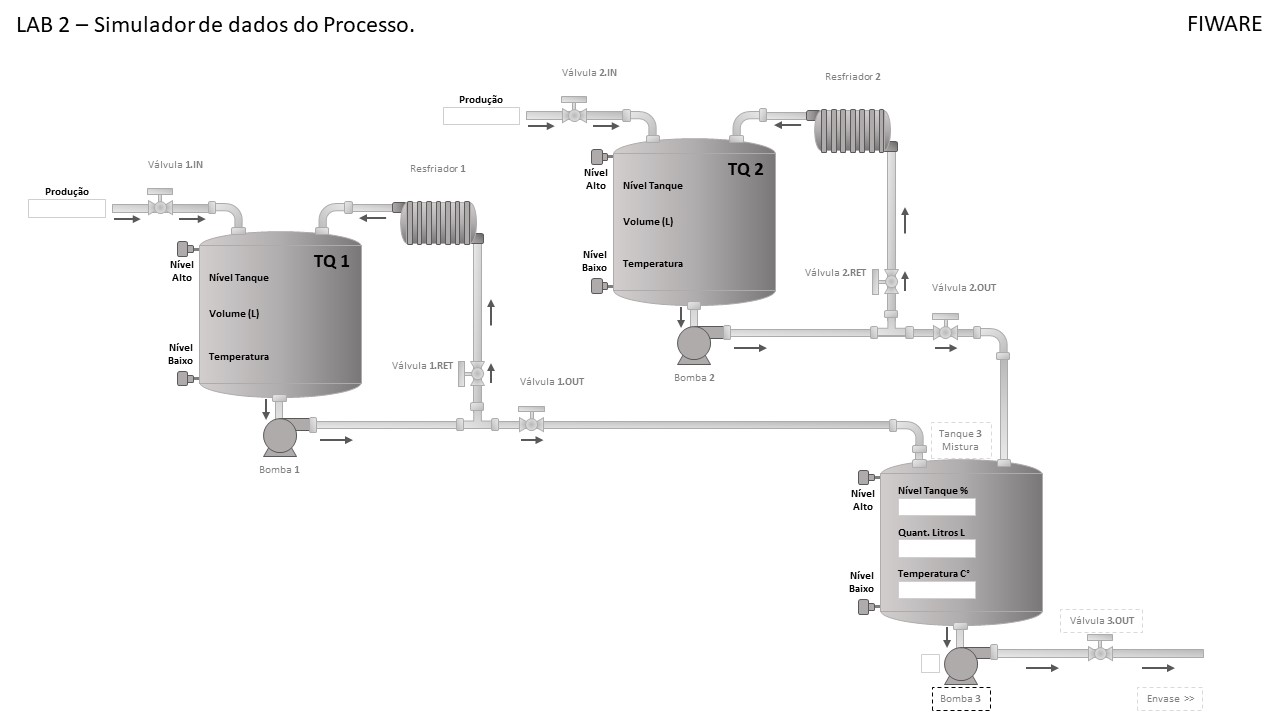
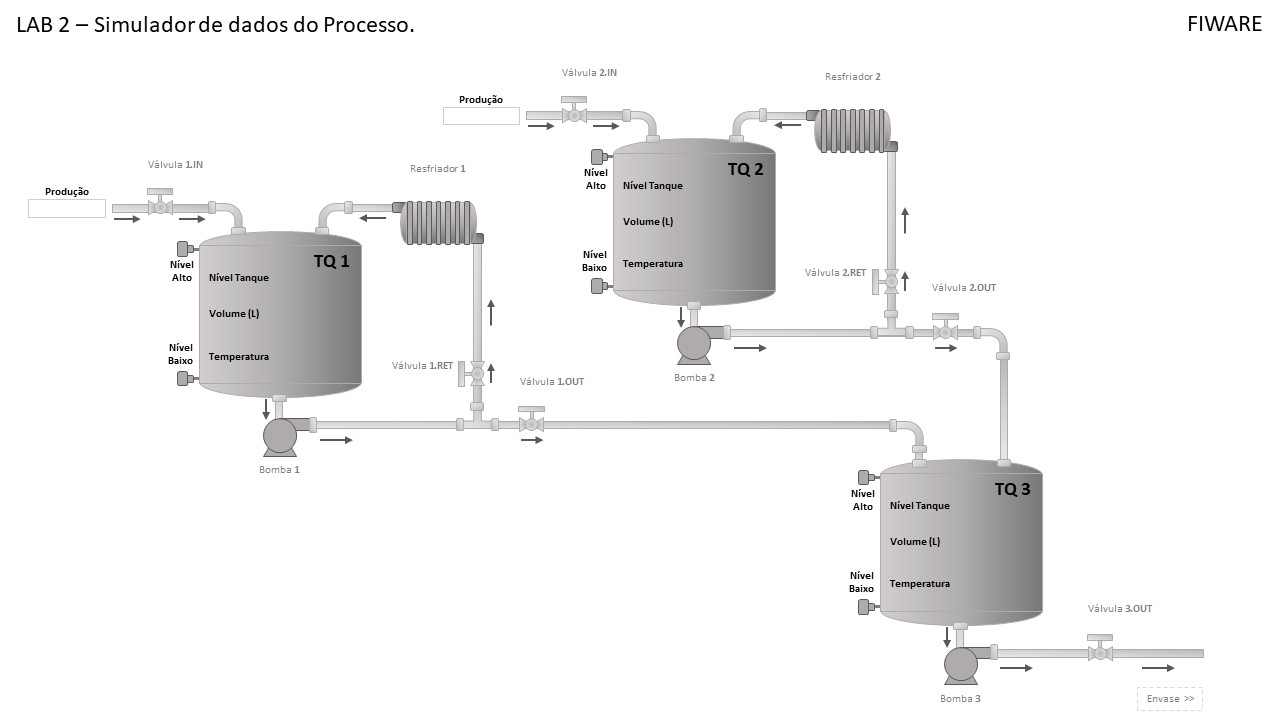
Lab 02 - Adding TQ3

diff --git a/lab02/process-simulation/process.py b/lab02/process-simulation/process.py
@@ -5,7 +5,7 @@
 # [START import_module]
 import time
 import random
-
+import getopt, sys
 import paho.mqtt.client as paho
 
 from typing import List
@@ -45,6 +45,7 @@ class ProcessSimulation():
         self.__tank_1.setAttribute(id='TEMP.LOW' , value=35)        
         self.__tank_1.setAttribute(id='CAPACITY' , value=35000)
         self.__tank_1.setAttribute(id='CAPACITY.UNIT' , value='LT')
+        self.__tank_1.setAttribute(id='TEMPERATURE' , value=23.7)
 
         self.__tank_2 = Tank()
         self.__tank_2.setAttribute(id='NAME' , value='TQ2')
@@ -54,7 +55,8 @@ class ProcessSimulation():
         self.__tank_2.setAttribute(id='TEMP.LOW' , value=20)        
         self.__tank_2.setAttribute(id='CAPACITY' , value=40000)
         self.__tank_2.setAttribute(id='CAPACITY.UNIT' , value='LT')
-        
+        self.__tank_2.setAttribute(id='TEMPERATURE' , value=24.2) 
+      
         self.__tank_3 = Tank()
         self.__tank_3.setAttribute(id='NAME' , value='TQ3')
         self.__tank_3.setAttribute(id='LEVEL.HIGH' , value=90)
@@ -63,7 +65,7 @@ class ProcessSimulation():
         self.__tank_2.setAttribute(id='TEMP.LOW' , value=20)        
         self.__tank_3.setAttribute(id='CAPACITY' , value=60000)
         self.__tank_3.setAttribute(id='CAPACITY.UNIT' , value='LT')
-
+        self.__tank_3.setAttribute(id='TEMPERATURE' , value=21.7) 
 
         # Valve
         self.__valve_1_IN = Valve()
@@ -104,7 +106,19 @@ class ProcessSimulation():
         self.__ciclosTqFill = 0
         self.__ciclosTqFillMax = 30
         self.__ciclosTqColl = 0
-        self.__ciclosTqCollMax = 20        
+        self.__ciclosTqCollMax = 20 
+
+        self.__ciclosBlAvaliables = 0
+        self.__ciclosBlAvaliablesMax = 50
+
+        ## Simulação
+        # self.__tank_1.setAttribute(id='LEVEL' , value=38)
+        # self.__tank_1.setAttribute(id='VOLUME' , value=13300)
+        # self.__tank_1.setAttribute(id='TEMPERATURE' , value=41.7)
+
+        # self.__tank_2.setAttribute(id='LEVEL' , value=42)
+        # self.__tank_2.setAttribute(id='VOLUME' , value=16800)
+        # self.__tank_2.setAttribute(id='TEMPERATURE' , value=28.2)         
 
 
     def simulationLogic(self):
@@ -112,11 +126,17 @@ class ProcessSimulation():
         # TANKS BUFFERS
         for tk in [self.__tank_1, self.__tank_2]:
             self.simulationTankBuffer(tk)
+
+        # TANK BLENDER
+        self.simulationTankBlender(tankBuffes=[self.__tank_1, self.__tank_2], tankBlender=self.__tank_3)
+
+        # TANKS Publish
+        for tk in [self.__tank_1, self.__tank_2,self.__tank_3]:
             sentData = tk.publishMQTT(self.mqtt_client, self.mqtt_prefix)
             if self.__debug>=2:
                 print('## MQTT', tk.getAttribute(id='NAME'), ':\n', sentData, '\n')
 
-            time.sleep(self.sleepTime/5)
+            time.sleep(self.sleepTime/5)            
 
         # COOLER
         for cl in [self.__cooler_1, self.__cooler_2]:
@@ -301,6 +321,7 @@ class ProcessSimulation():
             temp = tankBlender.getAttribute(id='TEMPERATURE')
             tempLow = tankBlender.getAttribute(id='TEMP.LOW')
             tempHigh = tankBlender.getAttribute(id='TEMP.HIGH')
+            volume = tankBlender.getAttribute(id='VOLUME')
             level = capacity*(tankBlender.getAttribute(id='LEVEL')/100)
             levelLow = capacity*(tankBlender.getAttribute(id='LEVEL.LOW')/100)
             levelHigh= capacity*(tankBlender.getAttribute(id='LEVEL.HIGH')/100)
@@ -316,6 +337,7 @@ class ProcessSimulation():
                     'LEVEL.LOW',':',tankBlender.getAttribute(id='LEVEL.LOW'),f'({levelLow})','\n',
                     'LEVEL.HIGH',':',tankBlender.getAttribute(id='LEVEL.HIGH'),f'({levelHigh})','\n',
                     )
+                
 
             if sts == 0: # IS WAITING
                 if (level >= (levelLow*2)):
@@ -333,6 +355,28 @@ class ProcessSimulation():
 
                         for tb in tankBuffes:
                             tb.setStatus(id=4) # TO TRANSFER
+
+            if sts == 1: # TO AVAILABLE
+                self.__ciclosBlAvaliables += 1
+                if ((level <= levelHigh) and
+                    (self.__ciclosBlAvaliables>self.__ciclosBlAvaliablesMax)):
+                    allAvailables = True
+                    for tb in tankBuffes:
+                        stsTB = tb.getStatus()[0]
+
+                        if (allAvailables) and (stsTB!=1):
+                            allAvailables=False
+
+                    if allAvailables:
+                        tankBlender.setStatus(id=2) # TO FILLING
+
+                        for tb in tankBuffes:
+                            tb.setStatus(id=4) # TO TRANSFER
+                    self.__ciclosBlAvaliables = 0
+                else:
+                    if self.__debug>=1:
+                        print('AVAILABLE BLENDER',
+                              f'looping [{self.__ciclosBlAvaliables}/{self.__ciclosBlAvaliablesMax}]')
 
             if sts == 2: # TO FILLING
                 valve_OUT= self.__valve_3_OUT
@@ -354,31 +398,49 @@ class ProcessSimulation():
                     for tb in tankBuffes:
                         tb.setStatus(id=0) # TO WAIT
                 else:
-                    levelTQ1 = capacity*(tq1.getAttribute(id='LEVEL')/100)
-                    levelTQ2 = capacity*(tq2.getAttribute(id='LEVEL')/100)
-
                     capacityTQ1 = tq1.getAttribute(id='CAPACITY')
                     capacityTQ2 = tq2.getAttribute(id='CAPACITY')
+
+                    volumeTQ1 = tq1.getAttribute(id='VOLUME')
+                    volumeTQ2 = tq2.getAttribute(id='VOLUME')
 
                     tempTQ1 = tq1.getAttribute(id='TEMPERATURE')
                     tempTQ2 = tq2.getAttribute(id='TEMPERATURE')
 
                     addLiters = round(capacity*(random.randint(3,7)/1000),0) # 0.3% - 0.7%
                     
-                    levelTQ1 = levelTQ1-addLiters
-                    tq1.setAttribute(id='LEVEL' , value=int((levelTQ1/capacityTQ1)*100))
+                    if self.__debug>=1:
+                        print(
+                            'BLENDER FILLING (BEFORE)',
+                            'Volume TQ1=',volumeTQ1,';',
+                            'Volume TQ2=',volumeTQ2,';',
+                            'Liters=',addLiters,';',
+                            'Liters TQ1=',(addLiters*(-1)),';',
+                            'Liters TQ2=',(addLiters*2*(-1)), '\n'
+                            )
 
-                    levelTQ2 = levelTQ2-(addLiters*2)
-                    tq2.setAttribute(id='LEVEL' , value=int((levelTQ2/capacityTQ2)*100))
+                    volumeTQ1 = volumeTQ1-addLiters
+                    tq1.setAttribute(id='LEVEL' , value=int((volumeTQ1/capacityTQ1)*100))
 
-                    tankBlender.setAttribute(id='LEVEL' , value=int(((level+(addLiters*3))/capacity)*100))
+                    volumeTQ2 = volumeTQ2-(addLiters*2)
+                    tq2.setAttribute(id='LEVEL' , value=int((volumeTQ2/capacityTQ2)*100))
 
-                    tq1.setAttribute(id='VOLUME' , value=round(levelTQ1, 2))
-                    tq2.setAttribute(id='VOLUME' , value=round(levelTQ2, 2))
-                    tankBlender.setAttribute(id='VOLUME' , value=round((level+(addLiters*3)), 2))
+                    tankBlender.setAttribute(id='LEVEL' , value=int(((volume+(addLiters*3))/capacity)*100))
 
-                    newTemp = round(((addLiters*tempTQ1)+((addLiters*2)*tempTQ2)+(temp*level))/((addLiters*3)+level),2)
+                    tq1.setAttribute(id='VOLUME' , value=round(volumeTQ1, 2))
+                    tq2.setAttribute(id='VOLUME' , value=round(volumeTQ2, 2))
+                    tankBlender.setAttribute(id='VOLUME' , value=round((volume+(addLiters*3)), 2))
+
+                    newTemp = round(((addLiters*tempTQ1)+((addLiters*2)*tempTQ2)+(temp*volume))/((addLiters*3)+volume),2)
                     tankBlender.setAttribute(id='TEMPERATURE' , value=newTemp)
+
+                    if self.__debug>=1:
+                        print('BLENDER FILLING (AFTER)',
+                            'Volume TQ1=',volumeTQ1,';',
+                            'Volume TQ2=',volumeTQ2,';',
+                            'level TQ3=',int(((level+(addLiters*3))/capacity)*100),';',
+                            'volume TQ3=',round((level+(addLiters*3)), 2), '\n'
+                            )
 
 
 
@@ -485,6 +547,42 @@ def on_connect(client, userdata, flags, rc):
 # Main
 if __name__ == "__main__":
 
+    # Remove 1st argument from the
+    # list of command line arguments
+    argumentList = sys.argv[1:]
+    
+    # Options
+    options = "d:"
+    
+    # Long options
+    long_options = ["Debug="]
+
+    # Debug Level
+    debugLevel = 0
+
+    try:
+        # Parsing argument
+        arguments, values = getopt.getopt(argumentList, options, long_options)
+
+        # checking each argument
+        for currentArgument, currentValue in arguments:
+    
+            if currentArgument in ("-d", "--Debug"):
+                isValid = True if currentValue in ['0', '1', '2', '3'] else False
+                if not isValid:
+                    debugLevel = 0
+                    print (f'# ERROR: Argument ({currentArgument} = {currentValue}) is not valid!')
+                    print ('> Information:', '\n', 
+                           '- Arguments supported (-d or --Debug) = [0, 1, 2 or 3]')
+                else:
+                    debugLevel = int(currentValue)
+          
+    except getopt.error as err:
+        print(f'# ERROR: {str(err)}', '\n\n')
+        debugLevel = 0
+
+    print(f'> Debug level setted to {debugLevel}.')
+
     # Define parameters
     mqtt_broker = 'broker.hivemq.com'
     mqtt_port = 1883
@@ -498,7 +596,7 @@ if __name__ == "__main__":
     client.loop_start()
 
     # Simulação
-    process = ProcessSimulation(mqtt_client=client, mqtt_prefix='scadalts/sm', sleepTime=5, debugLevel=1)
+    process = ProcessSimulation(mqtt_client=client, mqtt_prefix='scadalts/sm', sleepTime=5, debugLevel=debugLevel)
 
     client.publish(f"scadalts/sm/PROCESS/DATE", datetime.now().strftime("%Y-%m-%d %H:%M:%S"))
     time.sleep(3)
